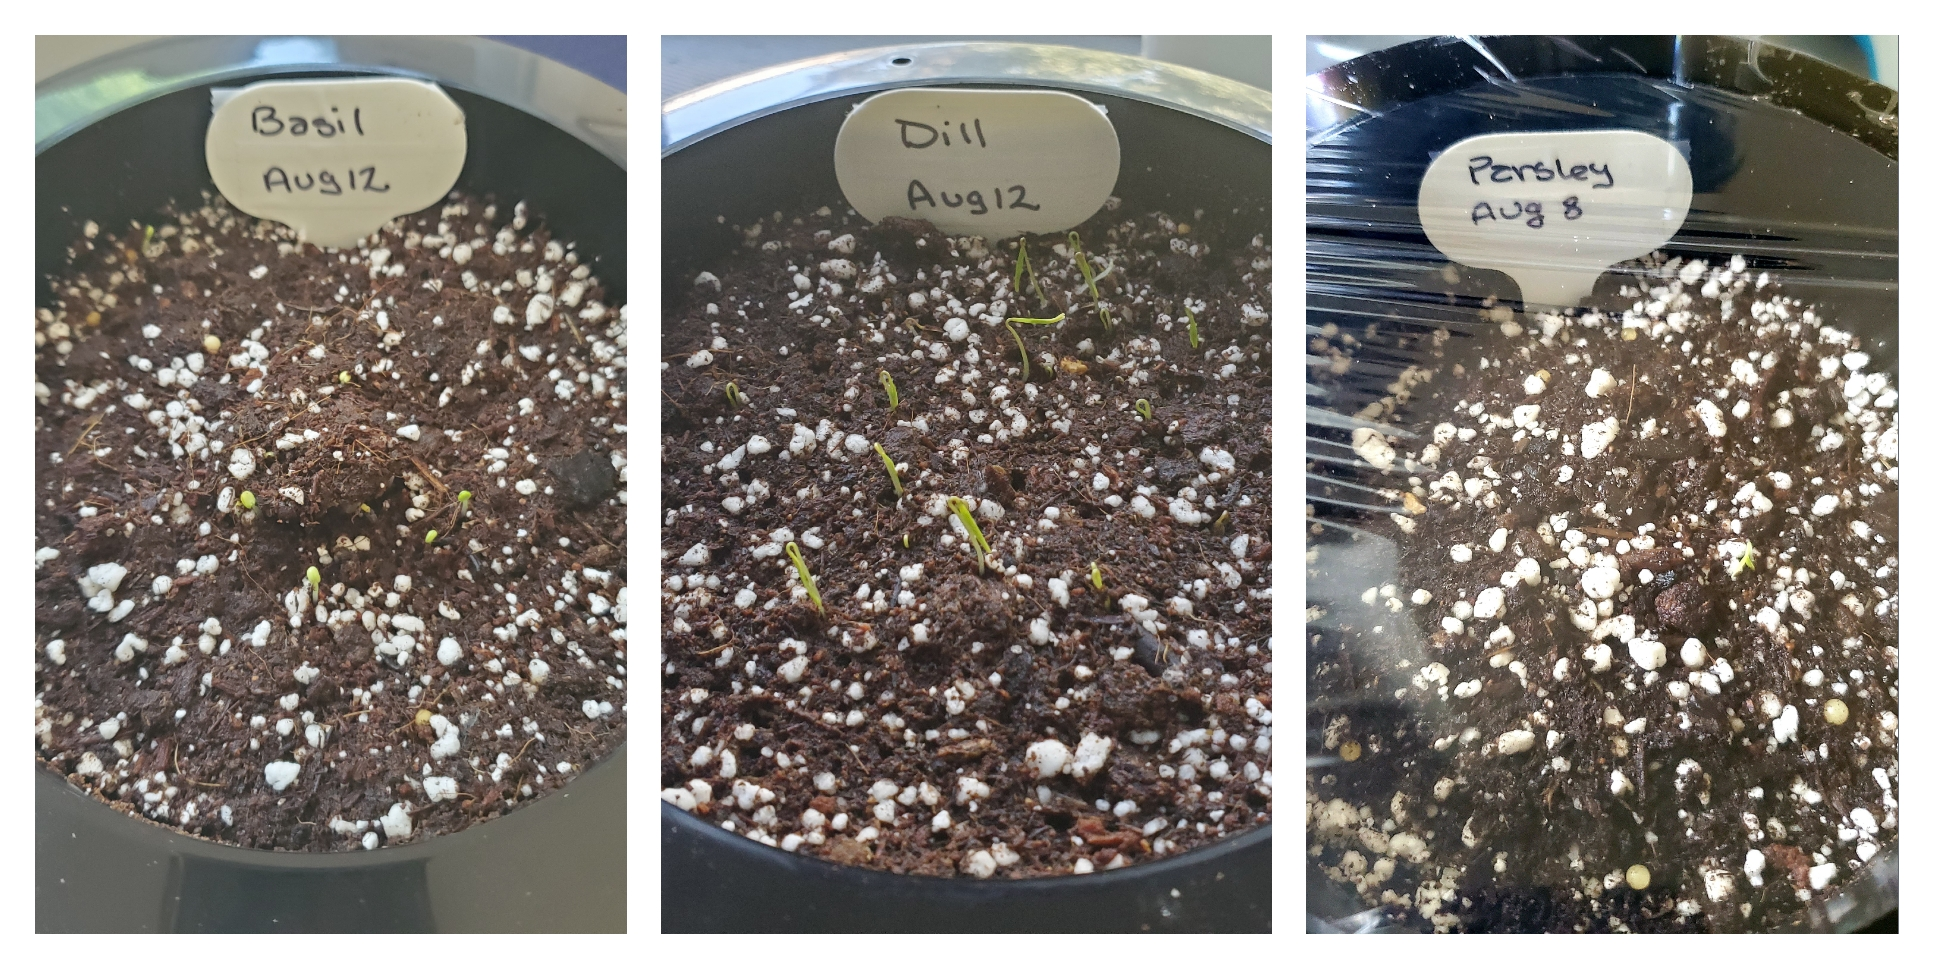
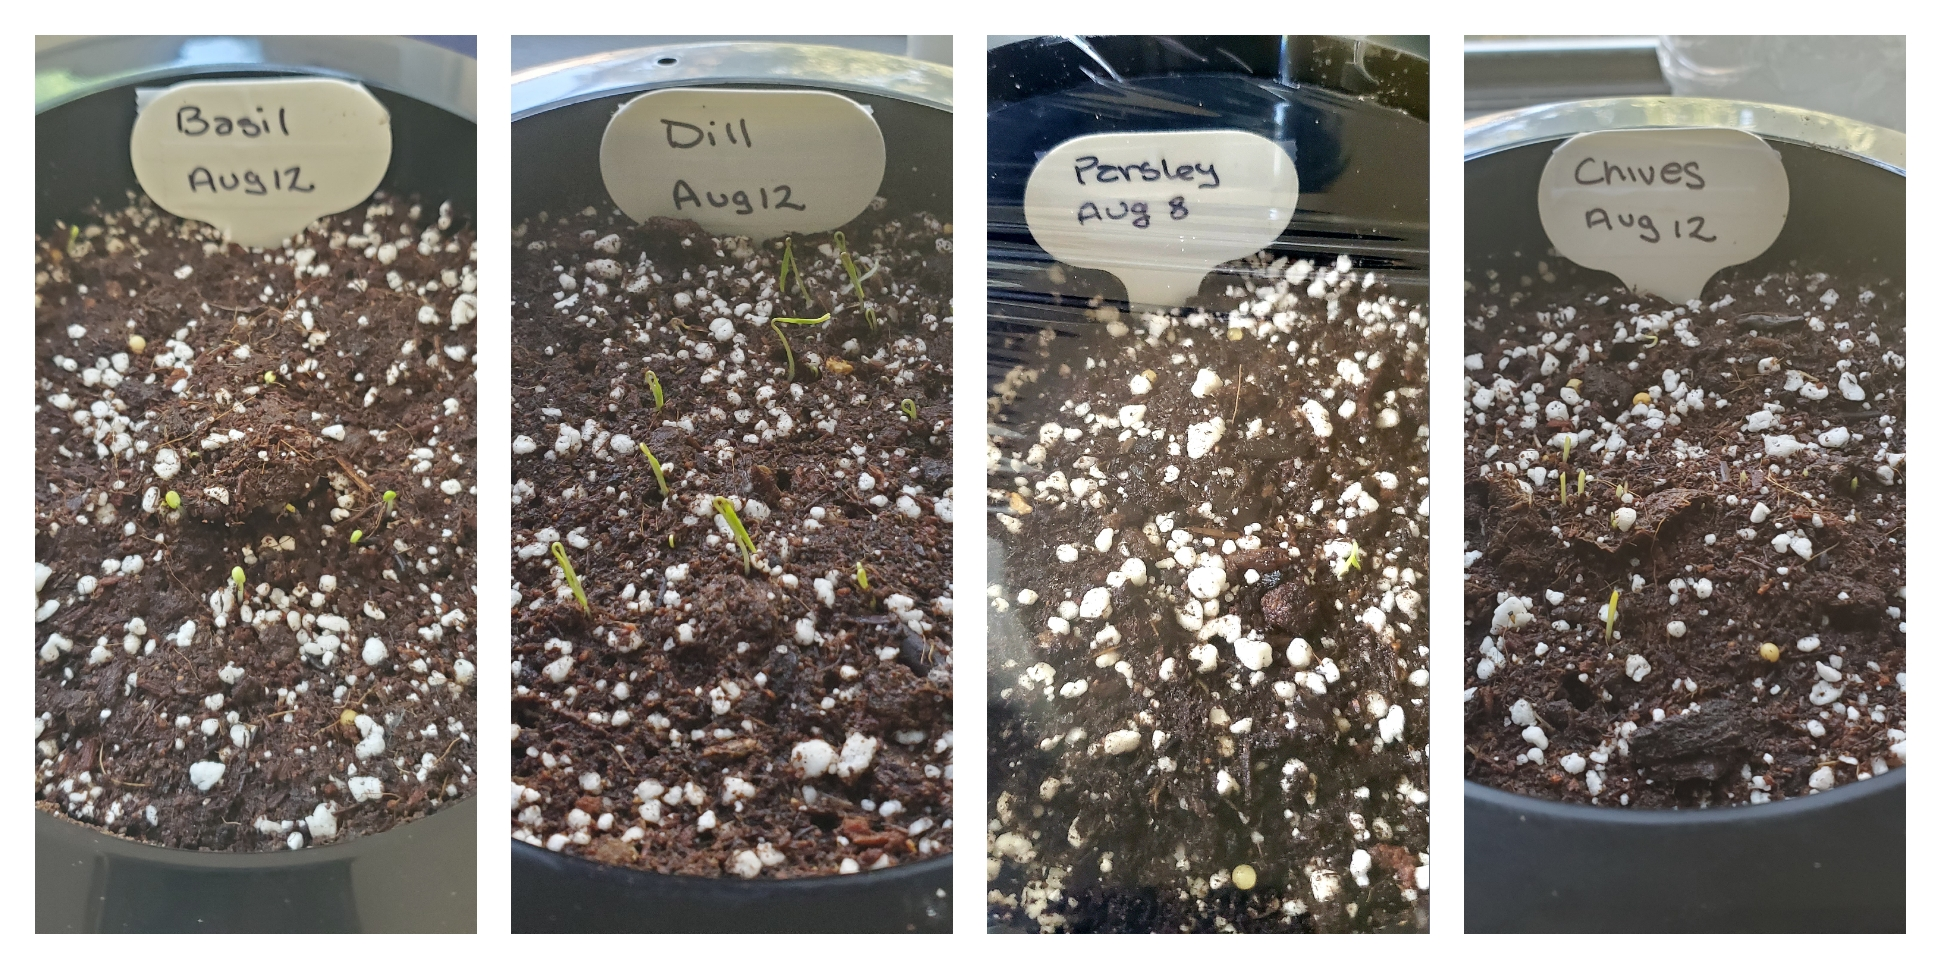
add chives

diff --git a/_posts/2020/aug/2020-08-17-hello-basil-dill-parsley-and-chives.md b/_posts/2020/aug/2020-08-17-hello-basil-dill-parsley-and-chives.md
@@ -1,9 +1,9 @@
 ---
 layout: post
-title: "Hello Basil, Dill, and Parsley!"
+title: "Hello Basil, Dill, Parsley, and Chives!"
 # author: candice
 categories: [Herbs, Seeds]
-tags: [Basil, Dill, Parsley]
+tags: [Basil, Dill, Parsley, Chives]
 image: assets/images/2020/aug/herberts-aug17.png
 comments: false
 # beforetoc: "Text before table of contents menu"
@@ -13,5 +13,7 @@ comments: false
 The Herbert's are coming in fast and strong! Basil actually made it's debut yesterday, and then today Dill came out to say hello. Parsley is a bit shy...only one teeny bit of green peeping through the soil, so I've decided to leave the saran wrap on for another day while it continues to sprout.
 
 So now, over half of my herbs have sprouted!!! Just waiting for Cilantro, Mint, and Chives to come around.
+
+Edit: I swear when I started updating my blog a couple hours ago, there was no sign of Chives. Just did my rounds because it's what I do all day everyday, and noticed the Chives have arrived! Man, that was fast...! I've moved them out of the dark closet they were in for germination, and let them join the rest of the Herbert's in the kitchen window.
 
 For more details about any of my plants, check out [Plant Details](../details)

diff --git a/_pages/herbert.md b/_pages/herbert.md
@@ -165,7 +165,7 @@ Sprouted: Aug 17
 Germination: 10-14 days<br/>
 Harvest: 30-40 days<br/>
 Planted: Aug 12<br/>
-Check on: Aug 22
+Sprouted: Aug 17
 
 lace the pot in a dark spot in temperatures 60 to 70 F. (15 to 21 C.) until the seeds sprout, then move them into the light.
 
@@ -173,6 +173,8 @@ Once the chives are about a foot tall, simply snip off what you need.
 
 **Updates**
 
-**Aug 7: Planted chives seeds**
+<img class="figure-img" src="https://raw.githubusercontent.com/cndragn/garden/master/assets/images/herberts/chives-aug17.jpg">
+
+**Aug 17: Chives sprouted** Way ahead of schedule Chives burst onto the scene! There was nothing to see when I did my morning rounds, but in the afternoon Chives decided it was done sitting in a dark closet and shot out the soil. I've moved them into the kitchen window to join the rest of the Herberts.
 
 <hr/>
